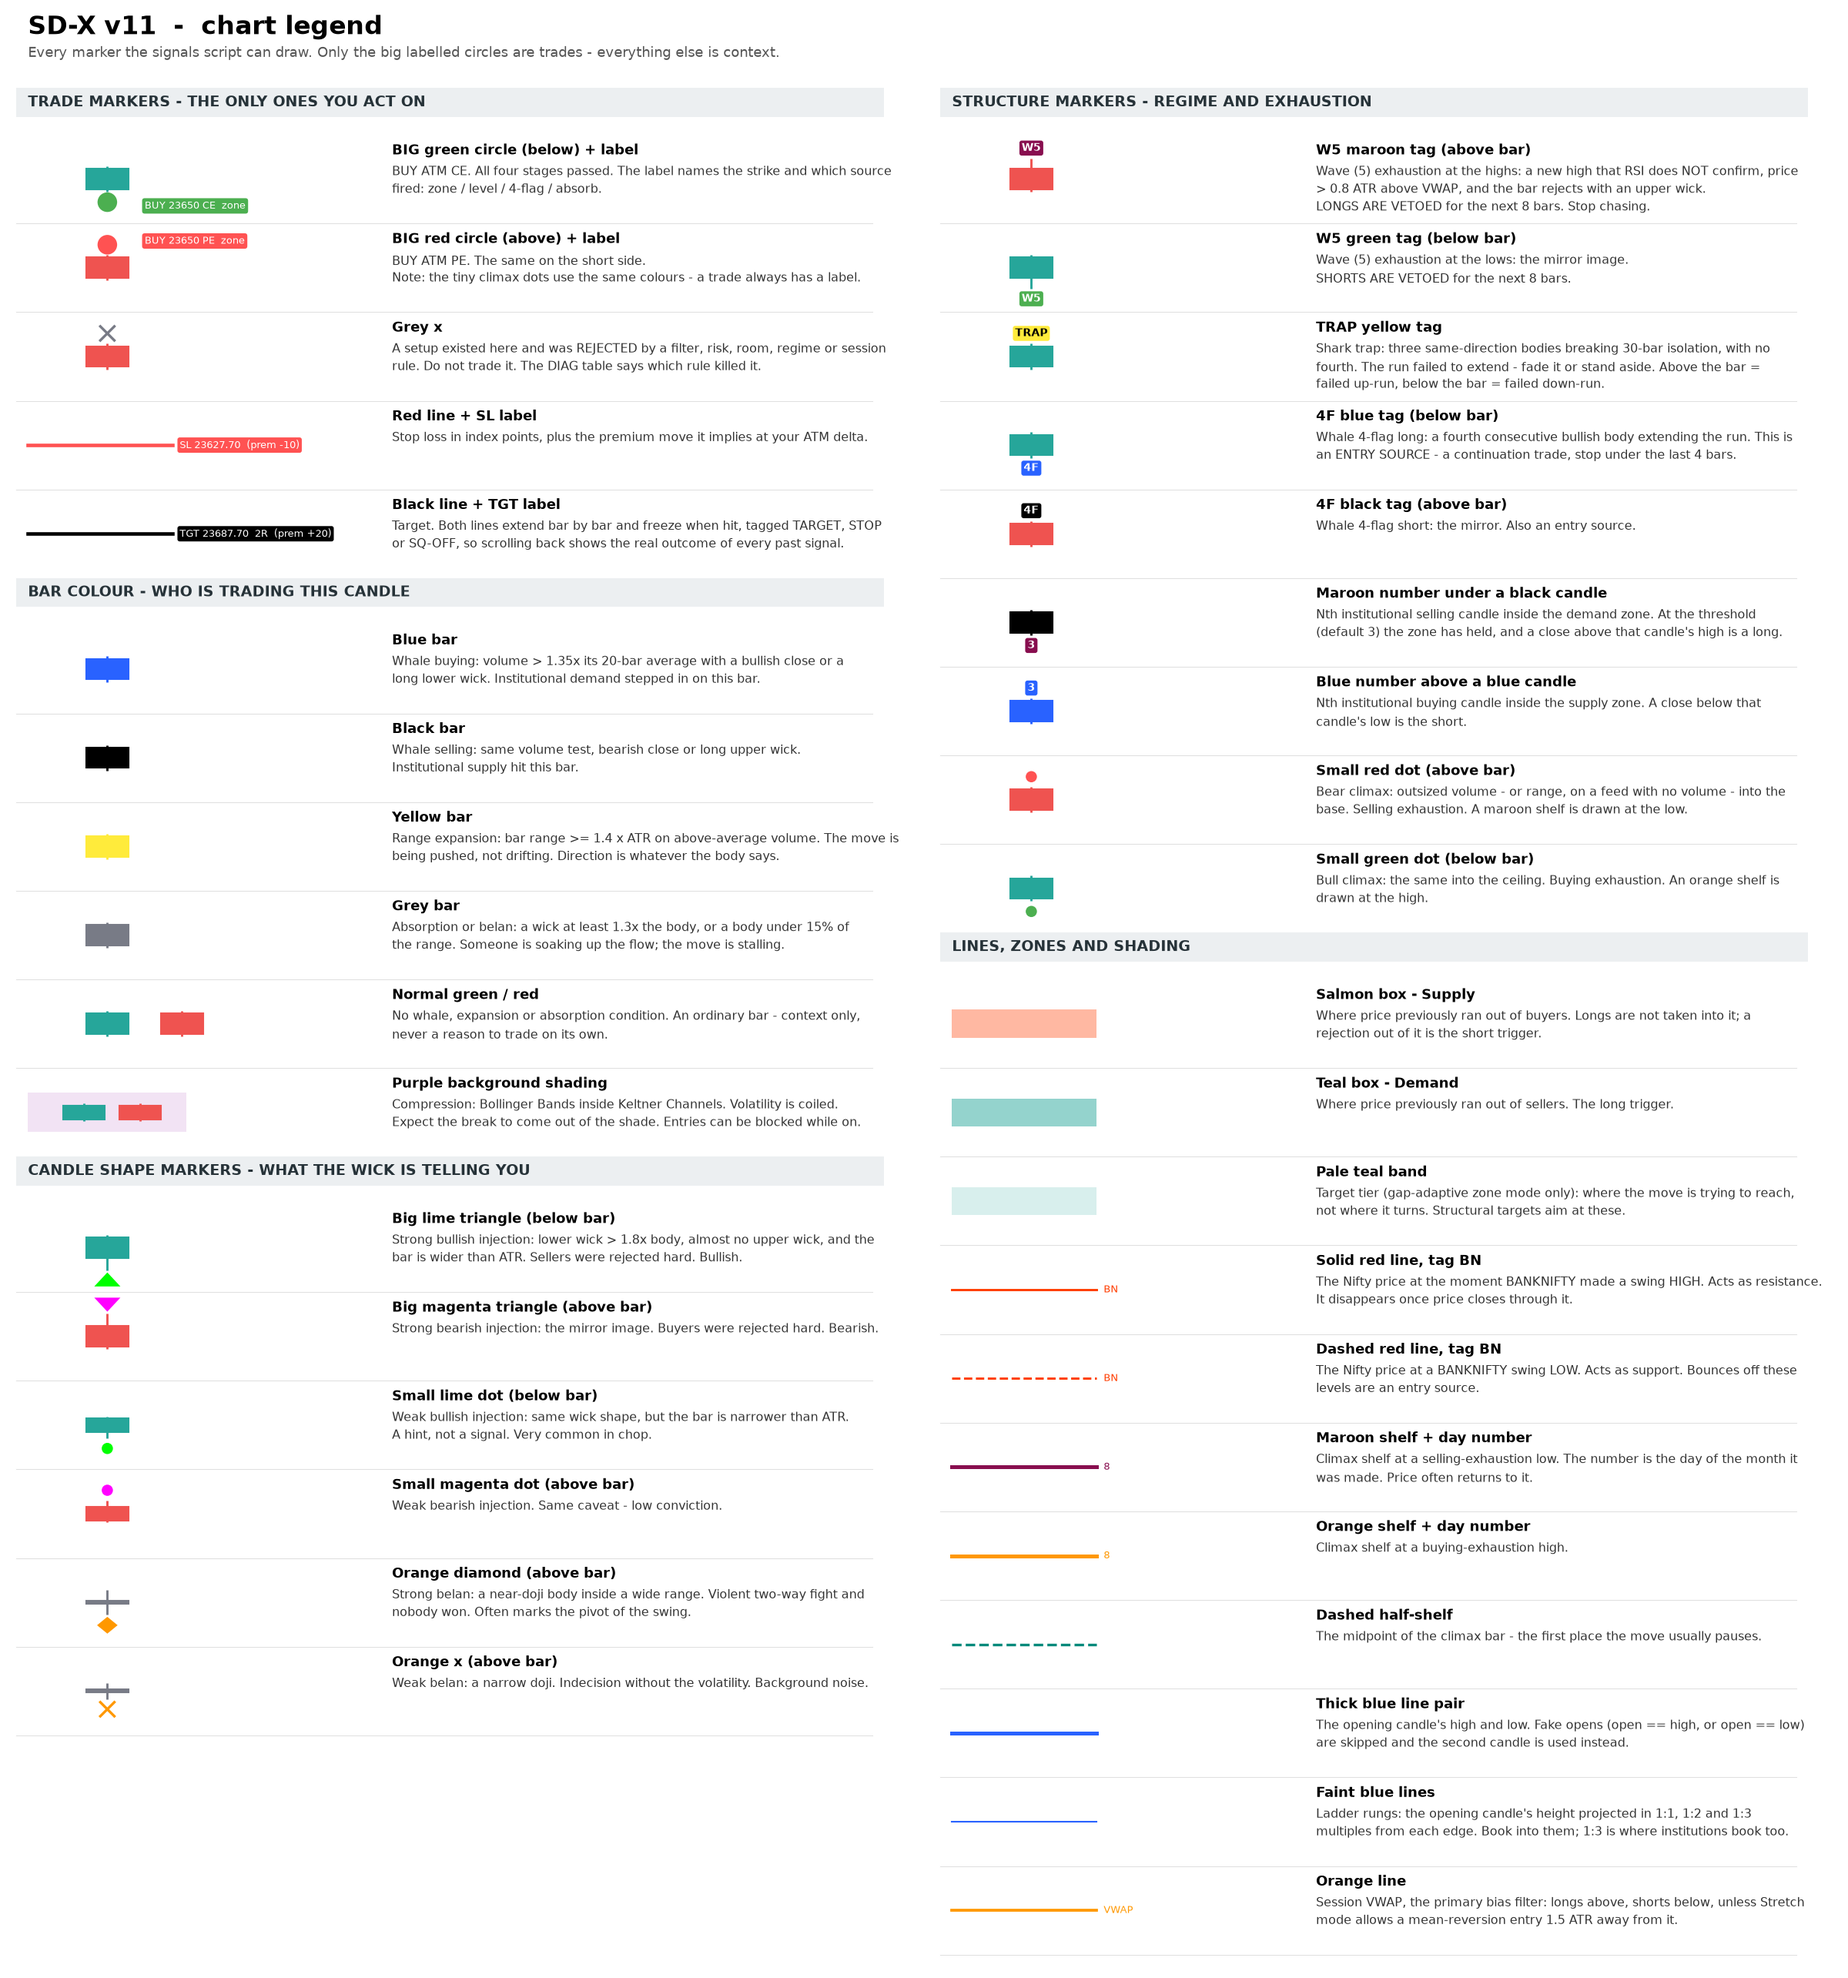
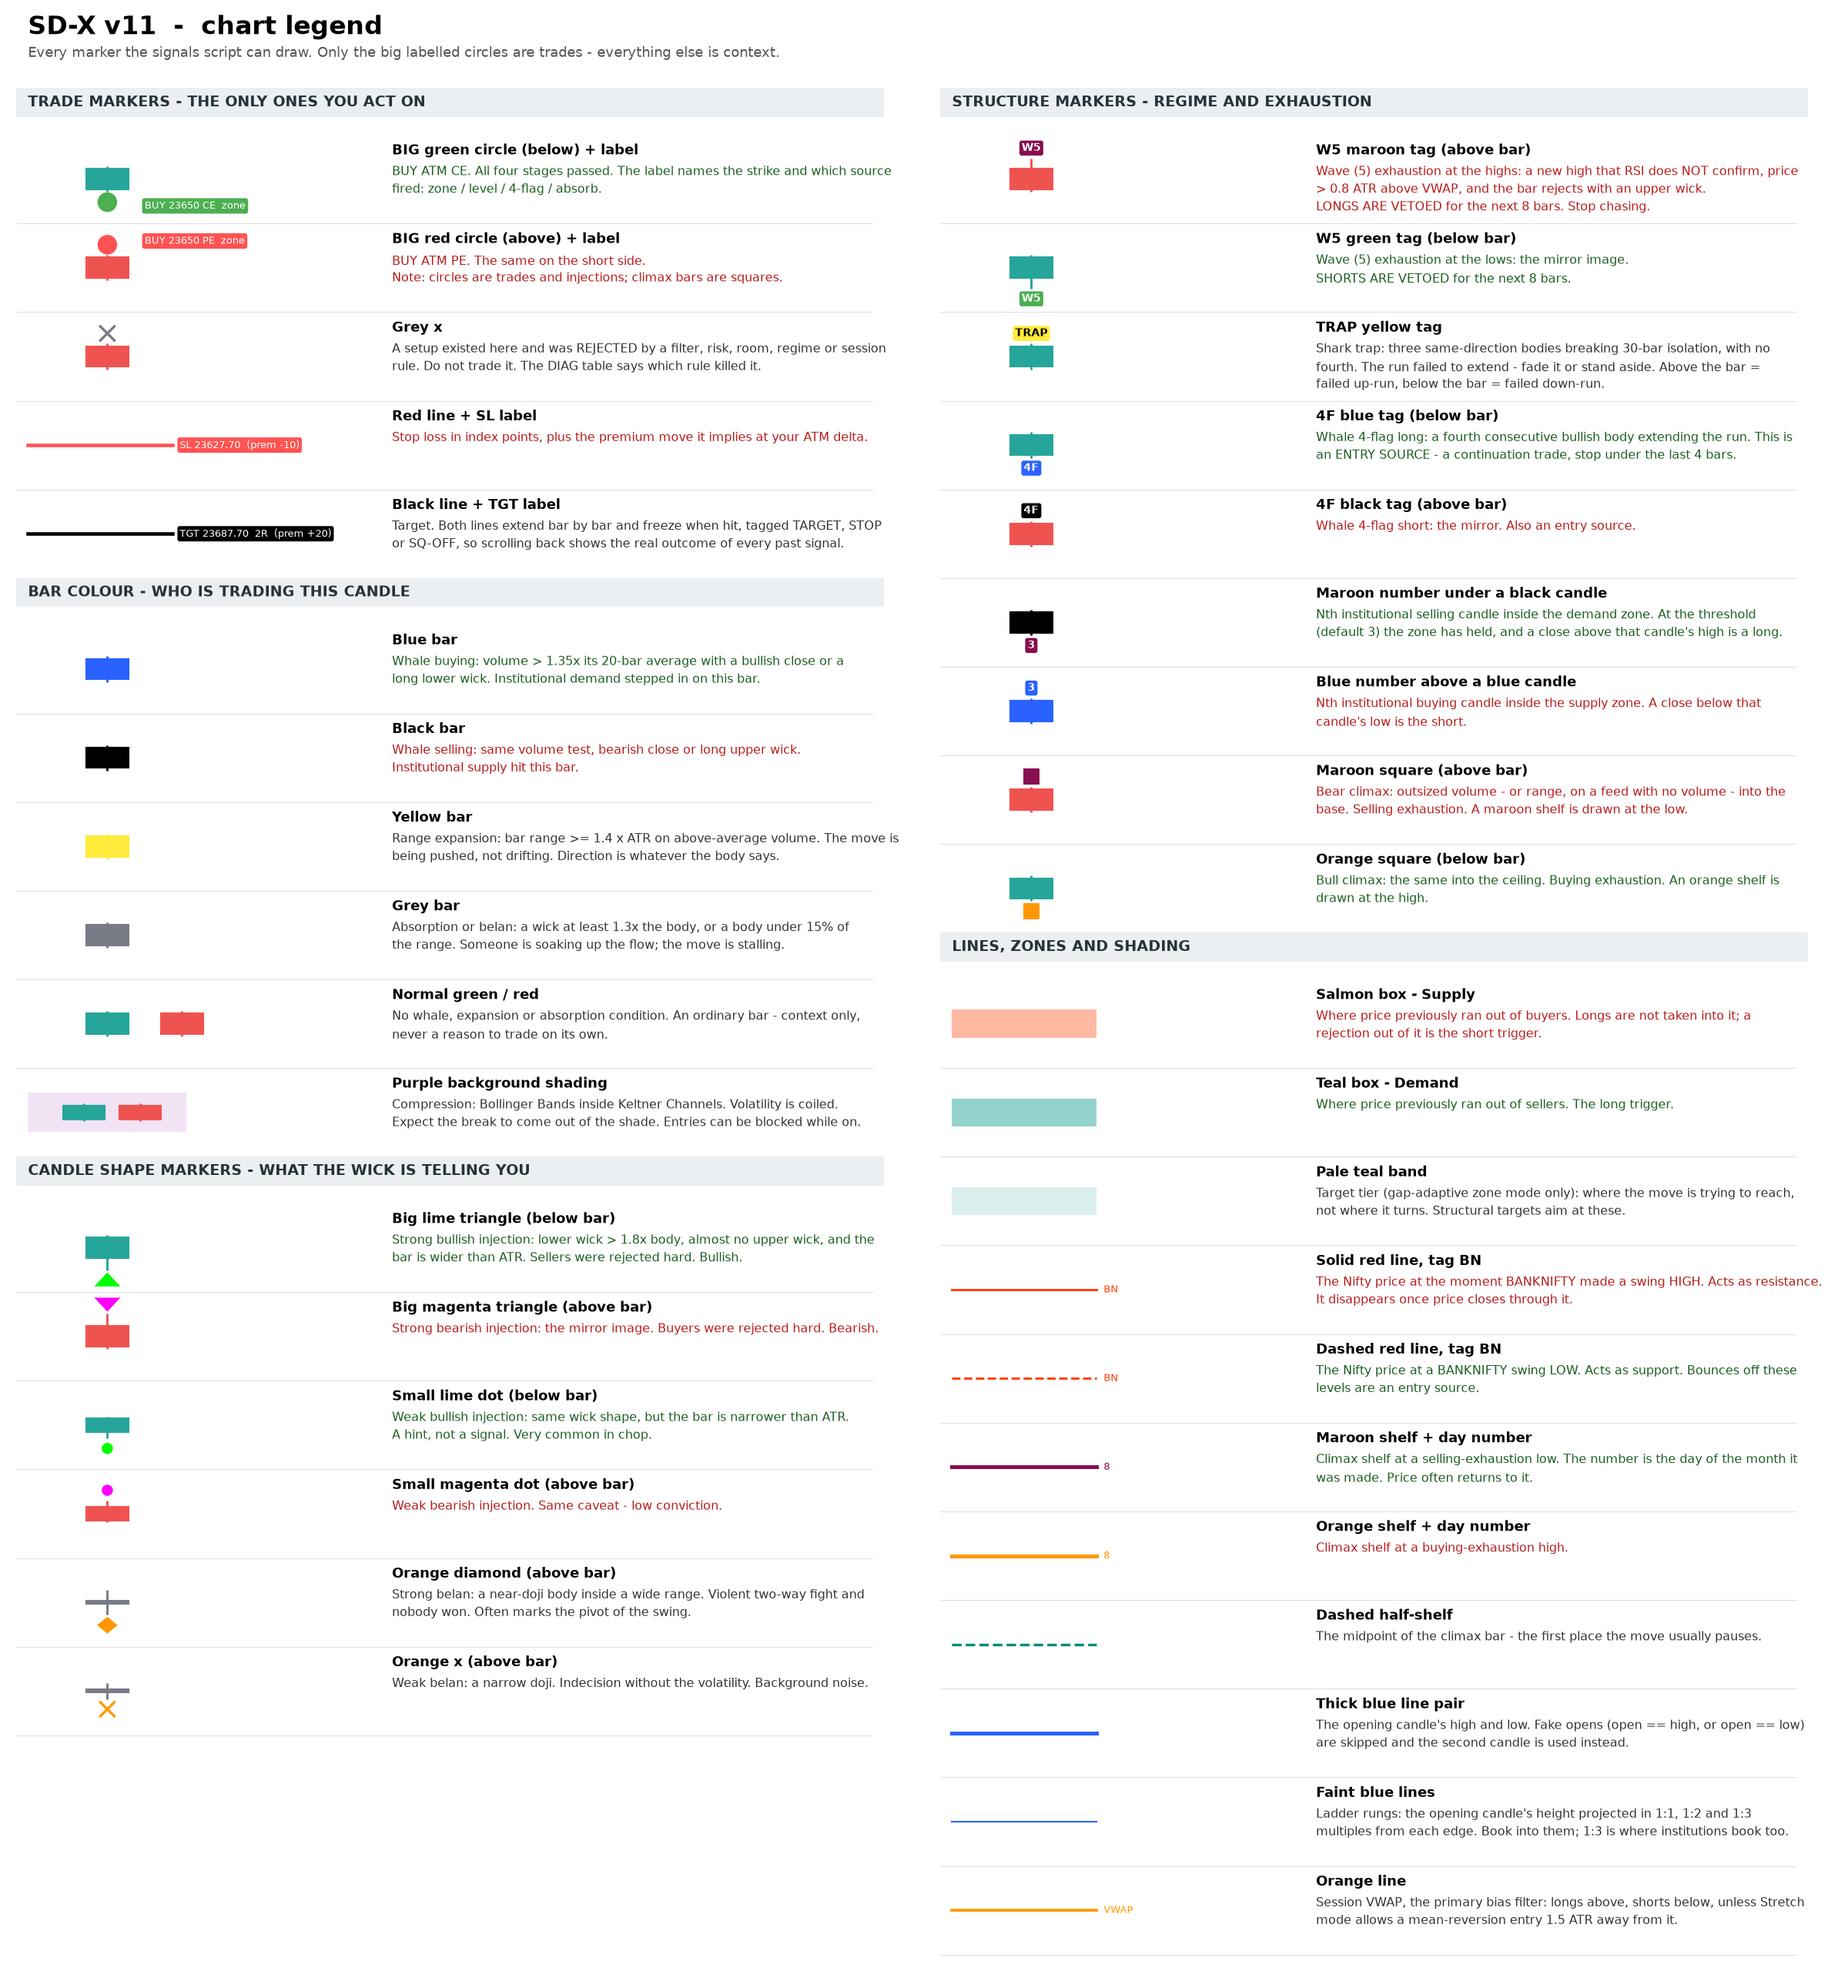
Signals and lot size updated

diff --git a/Nifty-Intra-OI/sdx_legend.py b/Nifty-Intra-OI/sdx_legend.py
@@ -30,7 +30,7 @@ SECTIONS = [
   ("candle", dict(body=DN, up=False, mark=("dot", RED, "sig"), label="BUY 23650 PE  zone"),
    "BIG red circle (above) + label",
    "BUY ATM PE. The same on the short side.\n"
-   "Note: the tiny climax dots use the same colours - a trade always has a label."),
+   "Note: circles are trades and injections; climax bars are squares."),
   ("candle", dict(body=DN, up=False, mark=("x", GRAY, "small")),
    "Grey x",
    "A setup existed here and was REJECTED by a filter, risk, room, regime or session\n"
@@ -122,12 +122,12 @@ SECTIONS = [
    "Blue number above a blue candle",
    "Nth institutional buying candle inside the supply zone. A close below that\n"
    "candle's low is the short."),
-  ("candle", dict(body=DN, up=False, mark=("dot", RED, "small")),
-   "Small red dot (above bar)",
+  ("candle", dict(body=DN, up=False, mark=("square", MARO, "small")),
+   "Maroon square (above bar)",
    "Bear climax: outsized volume - or range, on a feed with no volume - into the\n"
    "base. Selling exhaustion. A maroon shelf is drawn at the low."),
-  ("candle", dict(body=UP, up=True, mark=("dot", GREN, "small")),
-   "Small green dot (below bar)",
+  ("candle", dict(body=UP, up=True, mark=("square", ORNG, "small")),
+   "Orange square (below bar)",
    "Bull climax: the same into the ceiling. Buying exhaustion. An orange shelf is\n"
    "drawn at the high."),
  ]),
@@ -221,7 +221,7 @@ def draw_candle(ax, cx, cy, s):
 def draw_mark(ax, cx, ytop, ybot, m, up):
     """Marker above or below the candle, matching Pine's location.* argument."""
     kind, col = m[0], m[1]
-    above = kind in ("tri_dn", "label_dn") or (kind in ("dot", "x", "diamond") and not up)
+    above = kind in ("tri_dn", "label_dn") or (kind in ("dot", "x", "diamond", "square") and not up)
     y = (ytop + 0.22) if above else (ybot - 0.22)
     size = m[2] if len(m) > 2 else "small"
     if kind == "tri_up":
@@ -236,6 +236,8 @@ def draw_mark(ax, cx, ytop, ybot, m, up):
     elif kind == "dot":
         ax.add_patch(Circle((cx, y), 0.21 if size == "sig" else 0.12,
                             fc=col, ec="none", zorder=5))
+    elif kind == "square":
+        ax.add_patch(Rectangle((cx - .17, y - .17), .34, .34, fc=col, ec="none", zorder=5))
     elif kind == "x":
         ax.plot([cx - .15, cx + .15], [y - .15, y + .15], color=col, lw=1.6, zorder=5)
         ax.plot([cx - .15, cx + .15], [y + .15, y - .15], color=col, lw=1.6, zorder=5)
@@ -244,6 +246,36 @@ def draw_mark(ax, cx, ytop, ybot, m, up):
         ax.text(cx, y, m[2], fontsize=6.5, color=tcol, ha="center", va="center",
                 zorder=6, fontweight="bold",
                 bbox=dict(boxstyle="round,pad=0.22", fc=col, ec="none"))
+
+
+# Explanation text is tinted by what the marker means for direction. ponytail:
+# keyword scan over the row's own words, so new rows colour themselves.
+BULL_WORDS = ("bull", "long", "buy ce", "demand", "support", "buying", "absorb l",
+              "green", "lime", "accumulation", "upside", "bounce")
+BEAR_WORDS = ("bear", "short", "buy pe", "supply", "resistance", "selling",
+              "red ", "magenta", "distribution", "downside", "dump", "trap up")
+TXT_BULL, TXT_BEAR, TXT_FLAT = "#1B5E20", "#B71C1C", "#333333"
+
+
+# Rows the keyword scan reads the wrong way round; keyed by a unique name prefix.
+TONE_FIX = {"Normal green": TXT_FLAT, "W5 maroon": TXT_BEAR,
+            "Dashed red line": TXT_BULL, "Maroon shelf": TXT_BULL,
+            "Orange shelf": TXT_BEAR}
+
+
+def tone(name, meaning):
+    """Green / red / grey for the explanation text. The name carries most weight."""
+    def score(txt, w):
+        t = txt.lower()
+        return (w * sum(t.count(k) for k in BULL_WORDS),
+                w * sum(t.count(k) for k in BEAR_WORDS))
+    for k, v in TONE_FIX.items():
+        if name.startswith(k):
+            return v
+    b1, r1 = score(name, 3)
+    b2, r2 = score(meaning, 1)
+    b, r = b1 + b2, r1 + r2
+    return TXT_FLAT if b == r else (TXT_BULL if b > r else TXT_BEAR)
 
 
 def draw_row(ax, top, h, kind, spec, name, meaning, x0=SW_X):
@@ -273,7 +305,7 @@ def draw_row(ax, top, h, kind, spec, name, meaning, x0=SW_X):
                                ec="none", zorder=2))
     ax.text(tx, top - 0.34, name, fontsize=8.8, fontweight="bold", va="center", ha="left")
     ax.text(tx, top - 0.60, meaning, fontsize=7.6, va="top", ha="left",
-            color="#333333", linespacing=1.45)
+            color=tone(name, meaning), linespacing=1.45)
 
 
 def section_height(items):

diff --git a/Nifty-Intra-OI/SD-X_v11_User_Guide.md b/Nifty-Intra-OI/SD-X_v11_User_Guide.md
@@ -95,7 +95,7 @@ This is what the coloured candles and the small markers are. None of it fires a 
 | Shark trap | Three same-direction bodies breaking 30-bar isolation, with no fourth | Yellow `TRAP` tag |
 | Whale 4-flag | A fourth consecutive body extends the run | Blue `4F` (long) / black `4F` (short) — **an entry source** |
 | Absorption at base/ceiling | Absorption wick at the day's structural edge, on the right side of VWAP | Contributes an `absorb` entry — **an entry source** |
-| Climax | Outsized volume (or range) into the base or ceiling | Small red / green dot, plus a shelf line |
+| Climax | Outsized volume (or range) into the base or ceiling | Maroon square (bear, above bar) / orange square (bull, below bar), plus a shelf line |
 | Climax shelves | Horizontal memory of a climax bar, tagged with the day of month, with a dashed half-range line | Maroon (low) / orange (high) |
 | CAMDC phase | Where the day sits in Compression → Accumulation → Manipulation → Distribution → Correction | "Phase" row of the Today table |
 
@@ -377,6 +377,6 @@ These points matter more than any setting in this document.
 
 - The 1:3 contra idea — that institutions book at the third projection and the reverse trade becomes attractive — is described in the source session but never given an entry rule. Nothing in this script trades it. The ladder veto only stops the script adding to a move that has already reached its target.
 
-- Validate the lot size against the current NSE contract specification before trading — it is entered manually and defaults to 75.
+- Validate the lot size against the current NSE contract specification before trading — it is entered manually and defaults to 65.
 
 *This document describes a charting tool. It is not investment advice, and nothing in it is a recommendation to buy or sell any instrument. Test on paper before committing capital.*
